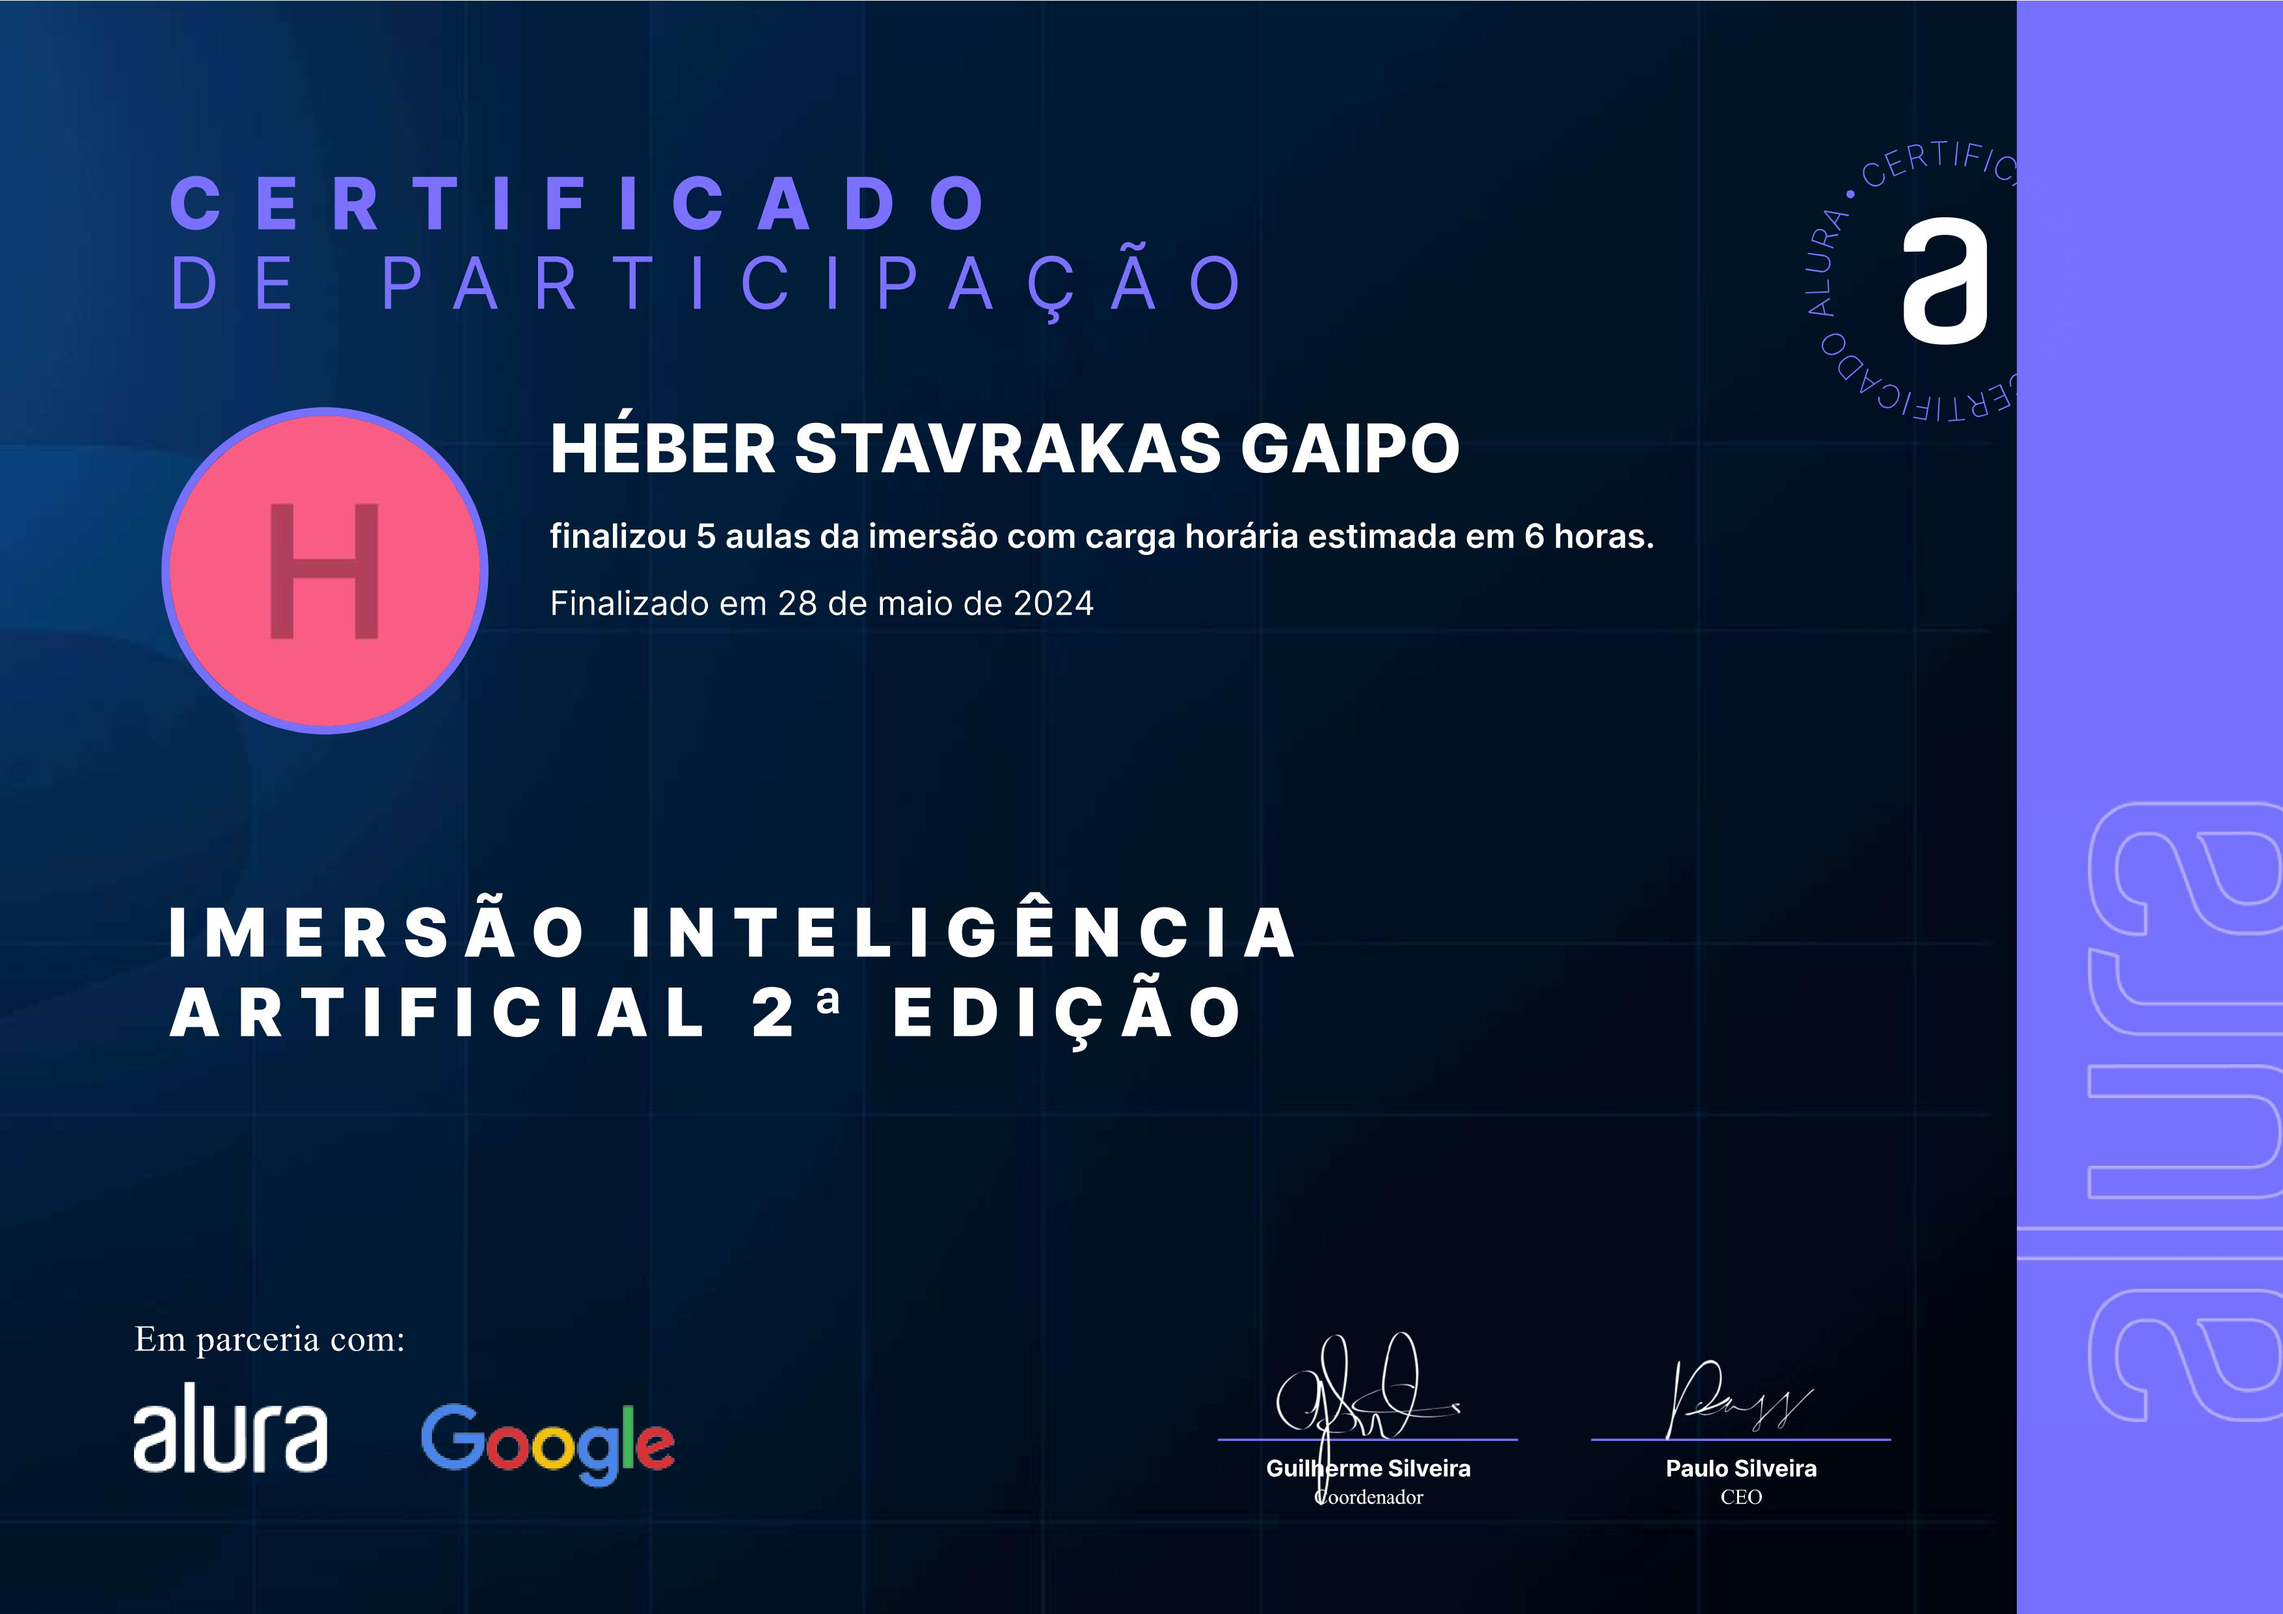
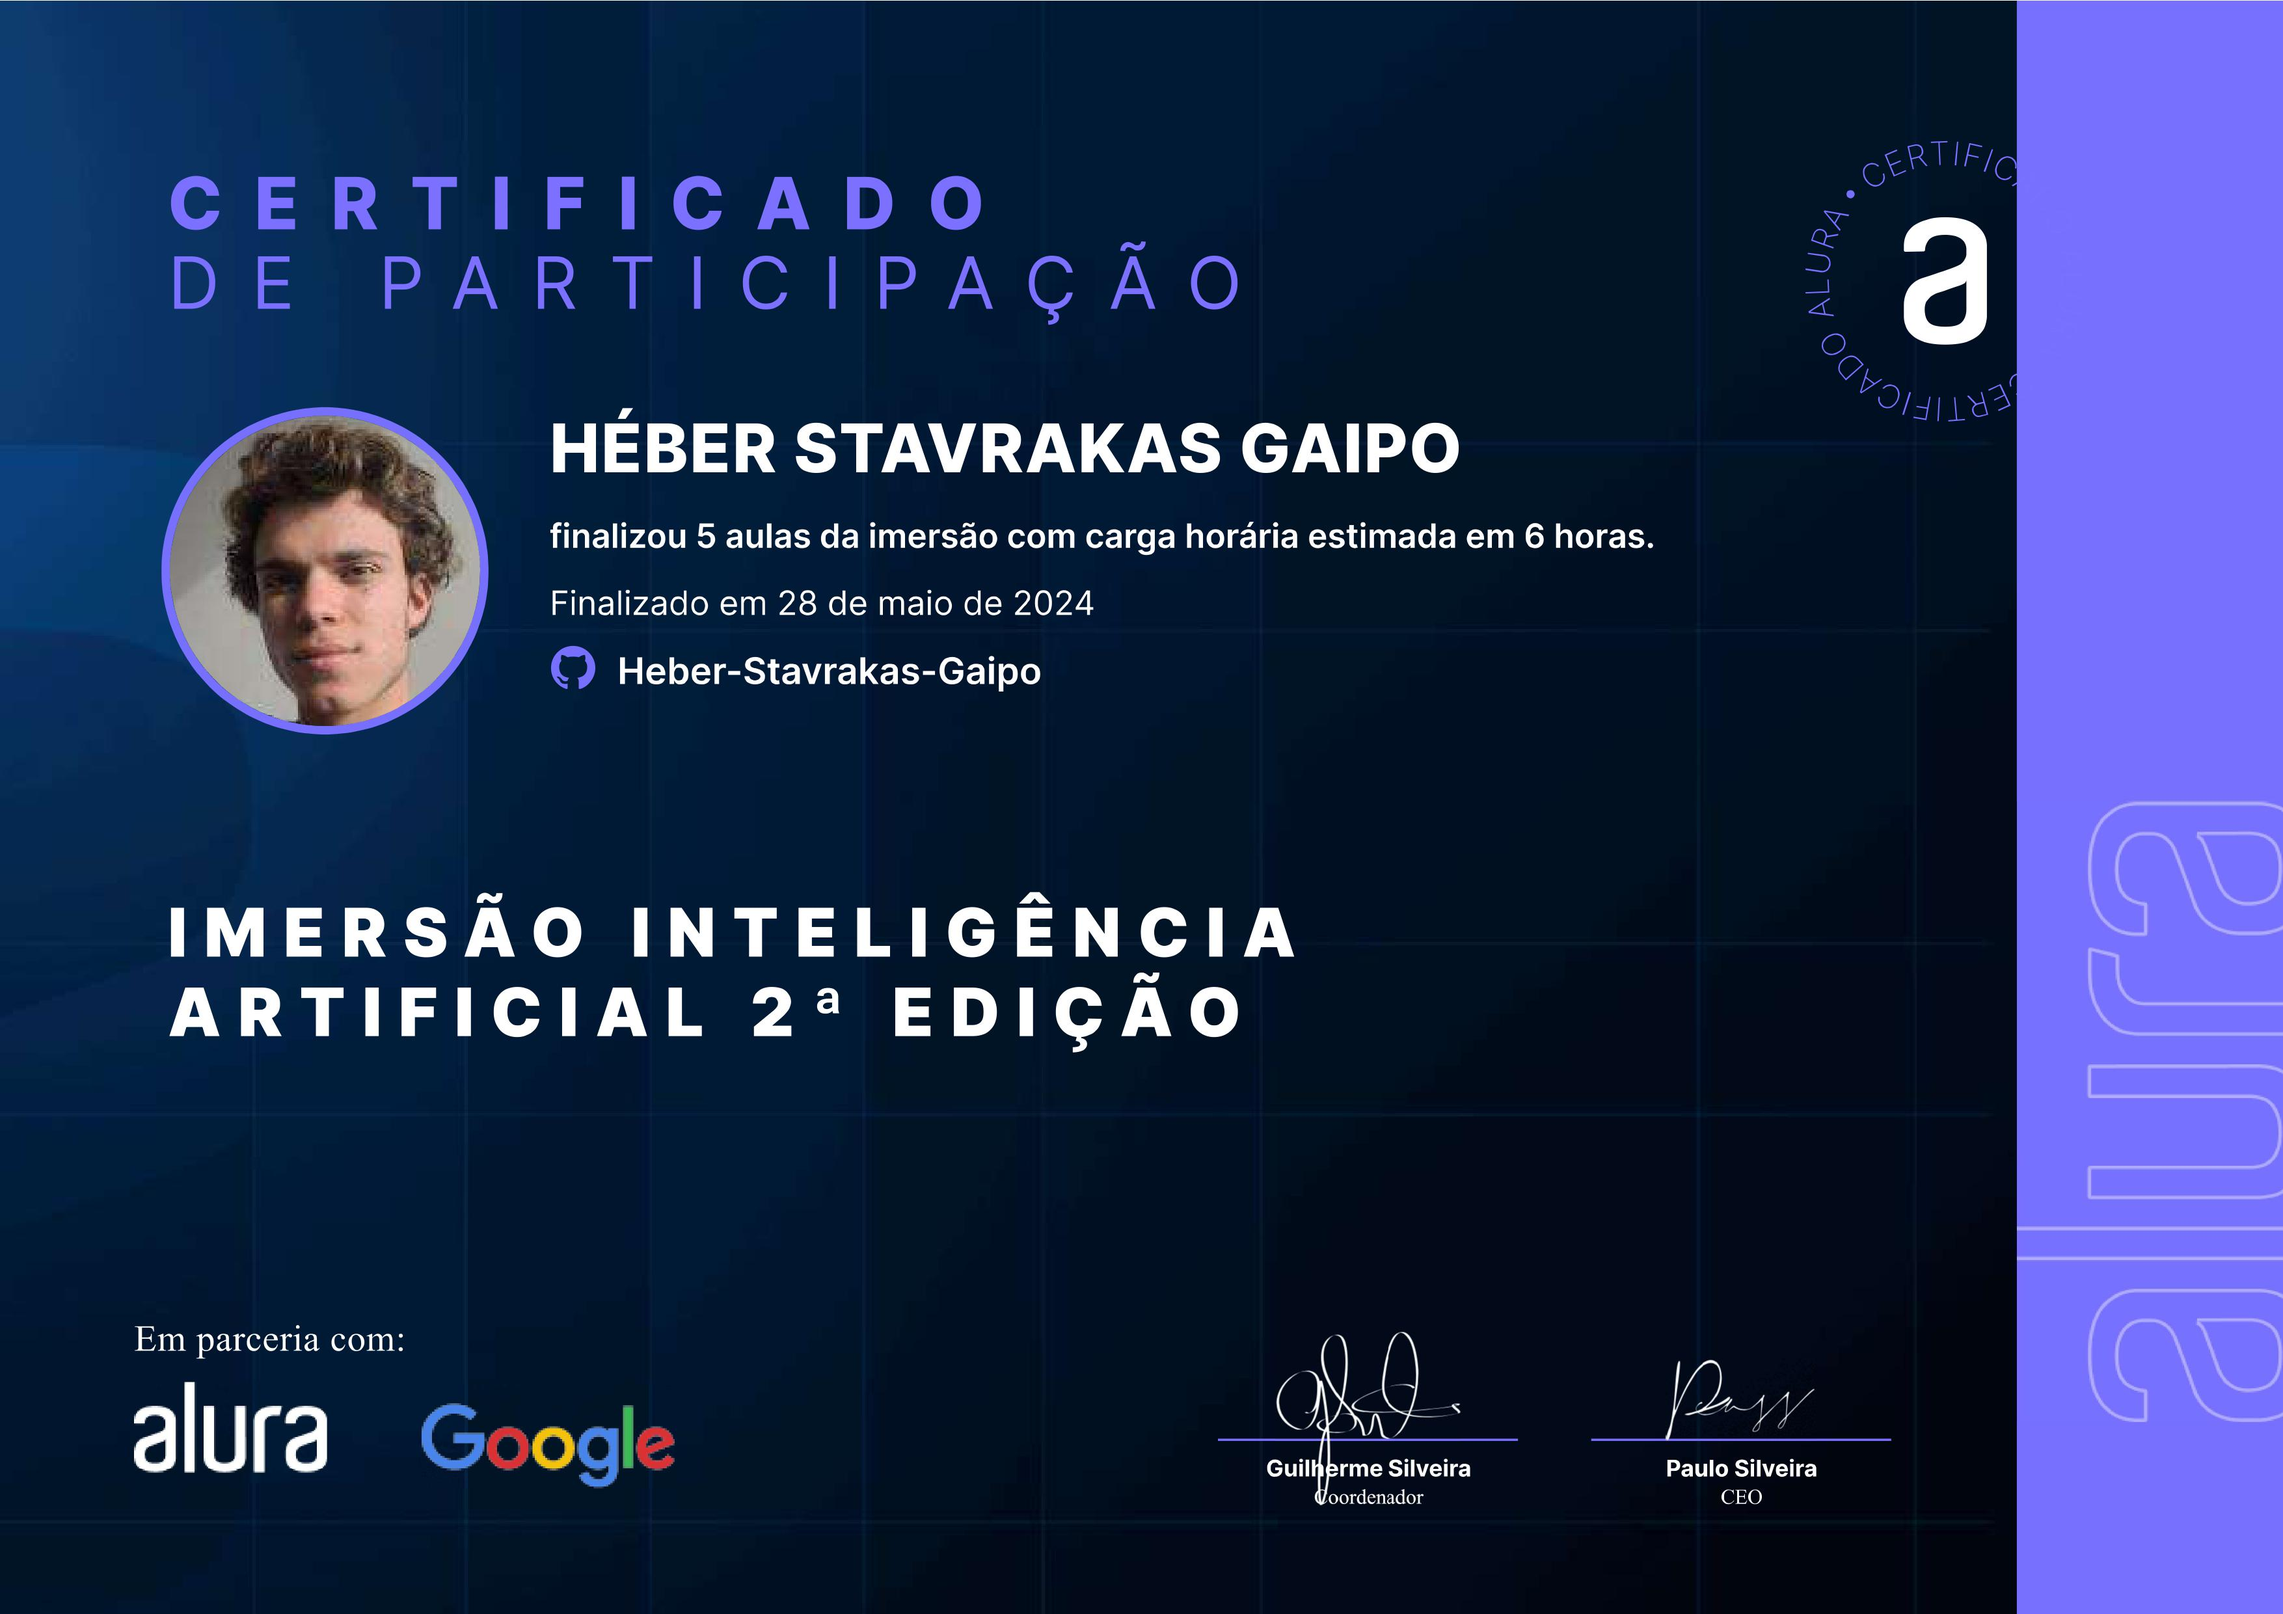
:lipstick: set a more complete Alura certificate and border style

Changed region(s): [[0.0621, 0.2483, 0.4659, 0.4655]]

diff --git a/src/public/css/certificates.css b/src/public/css/certificates.css
@@ -55,6 +55,10 @@ main hr {
   border: 5px solid #8257e5;
 }
 
+#alura-certificates .certificates img.certificate {
+  border: 5px solid #7473fa;
+}
+
 #dio-section:hover #dio-section-logo {
   padding-left: 1rem;
   border-left: .8rem solid #3cafe2;
